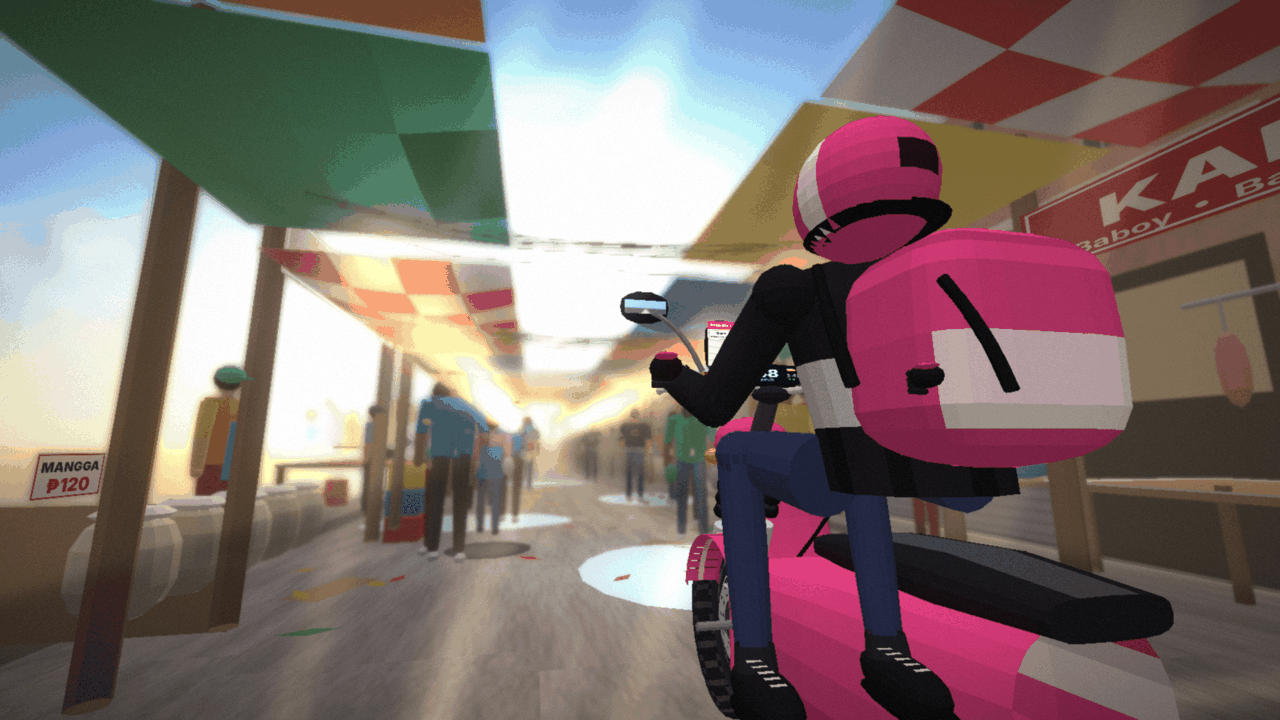
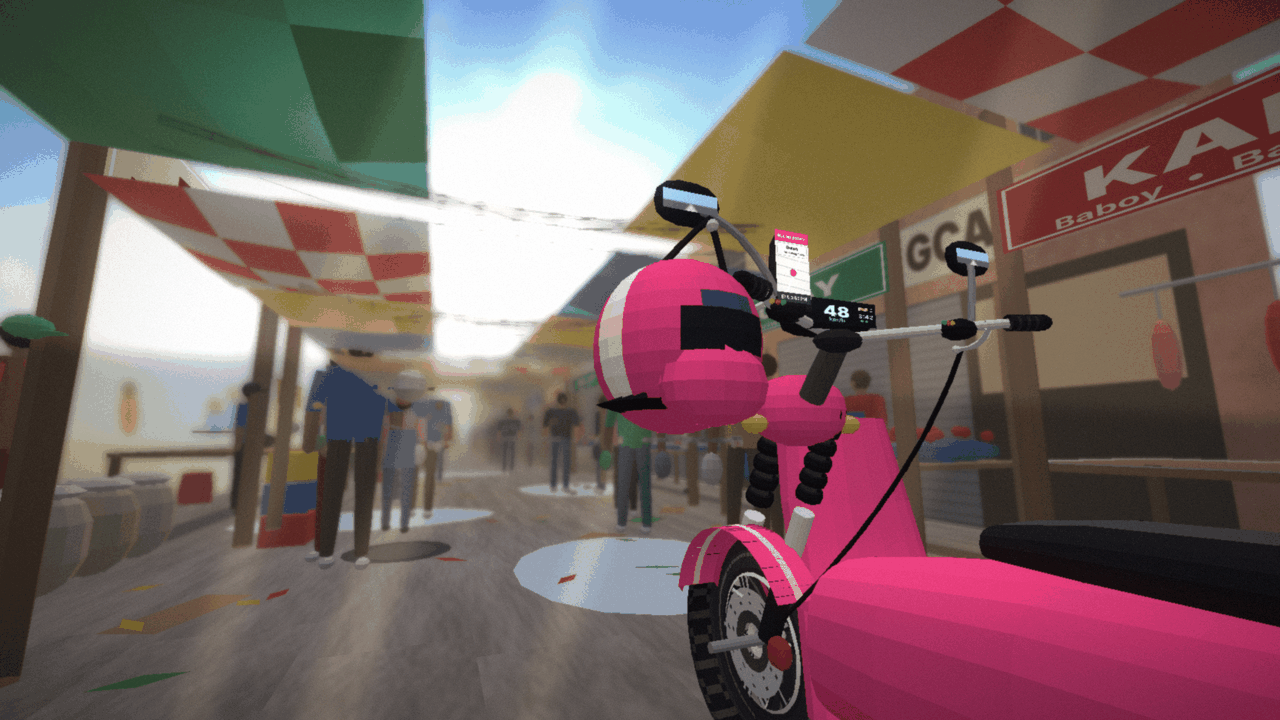
feat(art): daylight market with no lamps, and the helmet hung on the mirror instead of Peter
Claude-Session: https://claude.ai/code/session_018qtt7uTeVSGsnvQanUjafP

diff --git a/tools/bike_parts.py b/tools/bike_parts.py
@@ -237,7 +237,7 @@ def steering(scene, layer=6, glass=None, cluster=None, phone=None):
     ends, switch pods, brake hose, mirrors on stalks, dashboard housing, and (optionally) phone."""
     # Headlight with a lit lens, indicators, and the apron below it.
     ellipsoid(scene, (0, 1.03, -0.3), (0.14, 0.1, 0.1), PINK, layer - 2, n=22, m=12, e=0.8)
-    ellipsoid(scene, (0, 1.03, -0.205), (0.1, 0.075, 0.03), (255, 244, 214), layer - 2, n=18, m=8, emissive=True)
+    ellipsoid(scene, (0, 1.03, -0.205), (0.1, 0.075, 0.03), (226, 232, 236), layer - 2, n=18, m=8)   # the lens, off in daylight
     for sgn in (-1, 1):
         ellipsoid(scene, (sgn * 0.16, 0.99, -0.32), (0.032, 0.026, 0.04), (255, 160, 40), layer - 2, n=10, m=6)
     rings = [ring_points((0, y, z), (1, 0, 0), (0, 0, 1), rx, rz, 20, 0.75) for y, z, rx, rz in
@@ -364,21 +364,7 @@ def rider(scene, layer=7, left_only=False):
         curve_tube(scene, strap, 0.014, (18, 18, 20), layer + 2, 8)
     # Helmet: a glossy pink shell, a pale racing stripe, a black rubber rim and a rear vent.
     head = (0, 1.66, back(1.66) - 0.01)
-    def helmet_shade(k, i):
-        # Painted on the shell so each mark stays on its own side: a stripe over the top, a dark visor at
-        # the front, a white decal at each side and a vent at the back.
-        if i in (0, 1, 13, 14, 27) and 2 <= k <= 11 and not (i in (0, 14) and 6 <= k <= 9):
-            return (255, 238, 247)
-        if 6 <= i <= 9 and 7 <= k <= 8:
-            return (22, 26, 40)
-        if i in (0, 14) and 6 <= k <= 9:
-            return (255, 238, 247)
-        if i in (20, 21, 22) and 7 <= k <= 8:
-            return (40, 20, 30)
-        return None
-
-    ellipsoid(scene, head, (0.158, 0.172, 0.19), PINK, layer + 2, n=28, m=16, e=0.95, shade=helmet_shade)
-    ellipsoid(scene, (0, 1.545, back(1.545) - 0.02), (0.152, 0.02, 0.172), (20, 20, 22), layer + 2, n=28, m=4, e=0.9)   # the rubber rim at the bottom edge
+    helmet(scene, head, layer + 2, visor_i=7, back_y=back(1.545) - 0.02)
     # Arms: shoulder joints, sleeves with elbow bends and a reflective cuff, and gloves on the grips.
     for sgn in (-1, 1):
         shoulder = (sgn * 0.255, 1.36, back(1.36) + 0.0)
@@ -393,6 +379,48 @@ def rider(scene, layer=7, left_only=False):
         glove(scene, sgn, layer + 2)
     rider_leg(scene, -1, layer)
     rider_leg(scene, 1, layer)
+
+
+def helmet(scene, head, layer, visor_i=7, back_y=None):
+    """The pink helmet: a glossy shell with a pale stripe, a dark visor on one side (index `visor_i` of the
+    28 ring points: 7 faces +z, 21 faces -z), a decal at each ear, a vent opposite the visor and a black
+    rubber rim round the bottom edge. Marks are painted on the shell so each stays on its own side."""
+    n = 28
+    vent_i = (visor_i + 14) % n
+
+    def near(i, centre, spread):
+        return abs((i - centre + n // 2) % n - n // 2) <= spread
+
+    def helmet_shade(k, i):
+        if near(i, 0, 0) or near(i, 14, 0):
+            if 6 <= k <= 9:
+                return (255, 238, 247)
+        if near(i, visor_i, 2) and 6 <= k <= 9 and not (near(i, visor_i, 2) and k in (6, 9) and not near(i, visor_i, 1)):
+            return (22, 26, 40) if k != 6 else (60, 70, 96)   # a dark visor with a lighter glint along its top edge
+        if near(i, vent_i, 1) and 7 <= k <= 8:
+            return (40, 20, 30)
+        if (near(i, visor_i - 7 + 14, 0) or near(i, visor_i - 7, 0) or near(i, visor_i - 7 + 1, 0)) and 2 <= k <= 11:
+            return (255, 238, 247)   # the stripe over the top
+        return None
+
+    hx, hy, hz = head
+    ellipsoid(scene, head, (0.158, 0.172, 0.19), PINK, layer, n=n, m=16, e=0.95, shade=helmet_shade)
+    ellipsoid(scene, (hx, hy - 0.115, hz - 0.01), (0.152, 0.02, 0.172), (20, 20, 22), layer, n=n, m=4, e=0.9)   # the rubber rim at the bottom edge
+    front = 1 if visor_i == 7 else -1
+    ellipsoid(scene, (hx, hy - 0.09, hz + front * 0.15), (0.095, 0.07, 0.07), PINK, layer, n=18, m=8, e=0.85)   # the chin guard
+
+
+def hanging_helmet(scene, loop, layer=8):
+    """The helmet hung on the mirror by its straps: a loop of strap round the stalk, two straps down to the
+    shell, a small buckle, the visor turned towards the camera behind the bike."""
+    lx, ly, lz = loop
+    head = (lx - 0.1, ly - 0.3, lz - 0.02)
+    helmet(scene, head, layer, visor_i=21)
+    for sgn in (-1, 1):
+        top = (lx, ly, lz)
+        side = (head[0] + sgn * 0.14, head[1] + 0.02, head[2] - 0.02)
+        curve_tube(scene, bezier(top, ((top[0] + side[0]) / 2, (top[1] + side[1]) / 2 + 0.03, top[2] - 0.02), side, 6), 0.007, (24, 24, 28), layer, 6)
+    ellipsoid(scene, (lx, ly - 0.02, lz - 0.01), (0.014, 0.014, 0.014), (200, 204, 210), layer, n=8, m=4)   # the buckle on the stalk
 
 
 def glove(scene, sgn, layer):

diff --git a/tools/intro_frames.py b/tools/intro_frames.py
@@ -4,10 +4,10 @@
   Frame 1, the skyway: a low shot from the side as Peter rides his pink scooter along the elevated
   expressway at speed (the road streaks towards the vanishing point, the bike stays sharp), a green
   exit gantry and far traffic ahead, a hazy Manila beyond the barrier with a Gothic church spire.
-  Frame 3, the market: a chase view from above and behind Peter's left shoulder as he rolls into the
-  palengke street: his helmet and backpack, his hand on the grip, the dashboard and the phone on the
-  handlebar, then a crowded palengke: vendors and shoppers, stalls of fish, vegetables, meat, fruit, rice and isaw,
-  tarpaulin roofs, wires, a parked jeepney and a banner over the far entrance, all glowing in low sunlight.
+  Frame 3, the market: the scooter parked at the edge of a crowded palengke in daylight, seen from waist
+  level; Peter is gone from the picture and his pink helmet hangs from the left mirror. Vendors and shoppers,
+  stalls of fish, vegetables, meat, fruit, rice and isaw, tarpaulin roofs, wires, shafts of sun and a banner
+  over the far entrance. No lamp is on.
 
 The scooter and Peter are built by bike_parts.py, the market's stalls, people and tarps by market_parts.py. In each picture the bike is drawn in a pass of its own
 over the background, so the background can be softened (speed in frame 1, shallow focus in frame 3).
@@ -602,8 +602,8 @@ def market_fill(env, k):
 
 def build_market(size):
     w, h = size
-    cam_x, cam_y, cam_z = -0.8, 1.02, -2.05
-    camera = s3.Camera((cam_x, cam_y, cam_z), 12.0, 10.0, 72.0, size)
+    cam_x, cam_y, cam_z = -0.95, 0.95, -1.45
+    camera = s3.Camera((cam_x, cam_y, cam_z), 22.0, 9.0, 72.0, size)
     vp = camera.project((cam_x, cam_y, 100000.0))
     horizon_y, vp_x = int(vp[1]), int(vp[0])
     k = w / 1672.0
@@ -670,11 +670,6 @@ def build_market(size):
             pts = [camera.project((x, 0.0, z))[:2] for x, z in ((xa, z0 - 1.6), (xb, z0 - 1.6), (xb, z1 - 1.0), (xa, z1 - 1.0))]
             shadows.append(pts)
     bg = shade_polygons(bg, shadows, 0.74, 10 * k)
-    for bz in range(3, 38, 3):
-        for bx in (-2.3, 2.3):
-            sx, sy, sz = camera.project((bx, 2.75, bz))
-            if 0 < sx < w and 0 < sy < h:
-                bg = s3.add_glow(bg, (sx, sy), (255, 214, 140), max(60 * k * 6 / max(sz, 1.0), 6), 0.5)
     bg = light_shafts(bg, k, ((vp_x + 140 * k, 90 * k, 34), (vp_x + 420 * k, 60 * k, 26), (vp_x - 30 * k, 70 * k, 24), (vp_x + 760 * k, 120 * k, 22)))
     bg = depth_of_field(bg, env.depth, k)
 
@@ -685,7 +680,7 @@ def build_market(size):
     bp.wheel(chase, 0.0, -1.25, side=1, front=False)
     bp.scooter_body(chase, show_leg=False)
     bp.steering(chase, 6, cluster=cluster_texture(), phone=phone_texture())
-    bp.rider(chase)
+    bp.hanging_helmet(chase, (-0.42, 1.43, -0.55))
     out = chase.render(bg)
     return out
 

diff --git a/HANDOFF.md b/HANDOFF.md
@@ -171,8 +171,8 @@ Each is a tagged release on `main`. `git log --oneline` and `git tag -l` show th
 
 - **Tokhang intro is three frames (branch claude/tokhang-intro-frames):** 1 `tokhang_skyway.png` (low side
   shot of Peter riding the pink scooter on the skyway, exit gantry, hazy Manila with a church spire), 2 the TV
-  news, 3 `tokhang_market_arrival.png` (a chase view over Peter's left shoulder into the palengke street,
-  handlebar dashboard and phone showing Gwen's text). Both new frames are drawn from nothing in 3D by
+  news, 3 `tokhang_market_arrival.png` (the scooter parked at the palengke, seen from waist level, Peter not
+  in the picture, his pink helmet hung on the left mirror, dashboard and phone showing Gwen's text). Both new frames are drawn from nothing in 3D by
   `tools/intro_frames.py`; the scooter, wheels and Peter are lofted shapes in `tools/bike_parts.py`
   (`loft`, `ellipsoid`, `limb`; no game art). `tokhang_rider.png` and its drawing function are gone. Frame 3
   has no line and holds 3.5 s. Stand-ins, listed in `PLACEHOLDERS.txt`. Frame 1's camera is super near the front wheel
@@ -180,7 +180,7 @@ Each is a tagged release on `main`. `git log --oneline` and `git tag -l` show th
   filled by `tools/market_parts.py` (vendors and shoppers, veg/fish/meat/fruit/rice/isaw stalls with price
   cards and sign boards, tarpaulin roofs, tangled wires, a parked jeepney, crates and litter). Frame 3's camera is at waist level, with fog
   (`Scene.fog`), a depth map (`Scene.track_depth`) for depth of field, coloured bounce lights under the tarps,
-  glowing bulbs, tarp shadows on the floor and beams of sun. It takes about 70 seconds to render.
+  tarp shadows on the floor and beams of sun (no bulbs or lamps: it is daylight). It takes about 70 seconds to render.
 - **TV shop cards:** the HouseCredit promo and the BCash / Loro payment signs are now small horizontal
   acrylic cards hung inside the shop from suction-cup hooks, in a row high on the glass above the sets so
   the news stays the focus. `tools/tv_store.py` (`acrylic_card`).

diff --git a/docs/STORY_BIBLE.md b/docs/STORY_BIBLE.md
@@ -239,7 +239,7 @@ Three frames, one line of travel: the skyway, the news, the market. They are dra
 > **Reporter:** Kabilang sa mga nasawi ang isang babaeng hindi pa nakikilala. *(echo, flag `run_echo_mercy_ran`)*
 > **Peter:** Nanlaban na naman.
 
-`tokhang_market_arrival.png` (no line, a short hold): a chase view from above and behind his left shoulder as he rolls into the palengke street: his helmet and backpack, his left hand on the grip, the dashboard (48 km/h) and the phone on the bar (Gwen: *umuwi ka nang maaga*), a crowded palengke ahead: vendors and shoppers, stalls of vegetables, fish, meat, fruit, rice and grilled isaw with price cards and painted boards, tarpaulin roofs, tangled wires, a parked jeepney and a PALENGKE banner, the sun low at the end. It cuts straight to the phone call.
+`tokhang_market_arrival.png` (no line, a short hold): the scooter parked at the edge of the palengke in daylight, seen from waist level beside its left side with Peter gone from the picture: his pink helmet hangs by its straps from the left mirror, the dashboard and the phone on the bar (Gwen: *umuwi ka nang maaga*) still lit, and beyond it a crowded market: vendors and shoppers, stalls of vegetables, fish, meat, fruit, rice and grilled isaw with price cards and painted boards, tarpaulin roofs, tangled wires, shafts of sun and a PALENGKE banner. No lamp is on. It cuts straight to the phone call.
 
 ### 7.2 The phone call (branch choice)
 

diff --git a/assets/README.md b/assets/README.md
@@ -75,7 +75,7 @@ name from `PLACEHOLDERS.txt` so the tool never draws over it.
 | --- | --- |
 | `tokhang_skyway.png` | Intro frame 1: Peter on his scooter on the skyway, seen low from the side, Manila ahead (`tools/intro_frames.py`) |
 | `tokhang_tv_news.png` | Intro frame 2: TV news report about Tokhang |
-| `tokhang_market_arrival.png` | Intro frame 3: over Peter's left shoulder as he rolls into the market street (`tools/intro_frames.py`) |
+| `tokhang_market_arrival.png` | Intro frame 3: the scooter parked at the market, his helmet hung on the left mirror (`tools/intro_frames.py`) |
 | `tokhang_peter_holding.png`, `tokhang_peter_shot.png` | Peter with the toy gun, and the shooting |
 | `tokhang_gwen_holding.png`, `tokhang_gwen_shot.png` | Gwen with the toy gun, and the shooting |
 | `tokhang_kulas_runs.png`, `tokhang_kulas_shot.png` | Kulas running, and the shooting |
